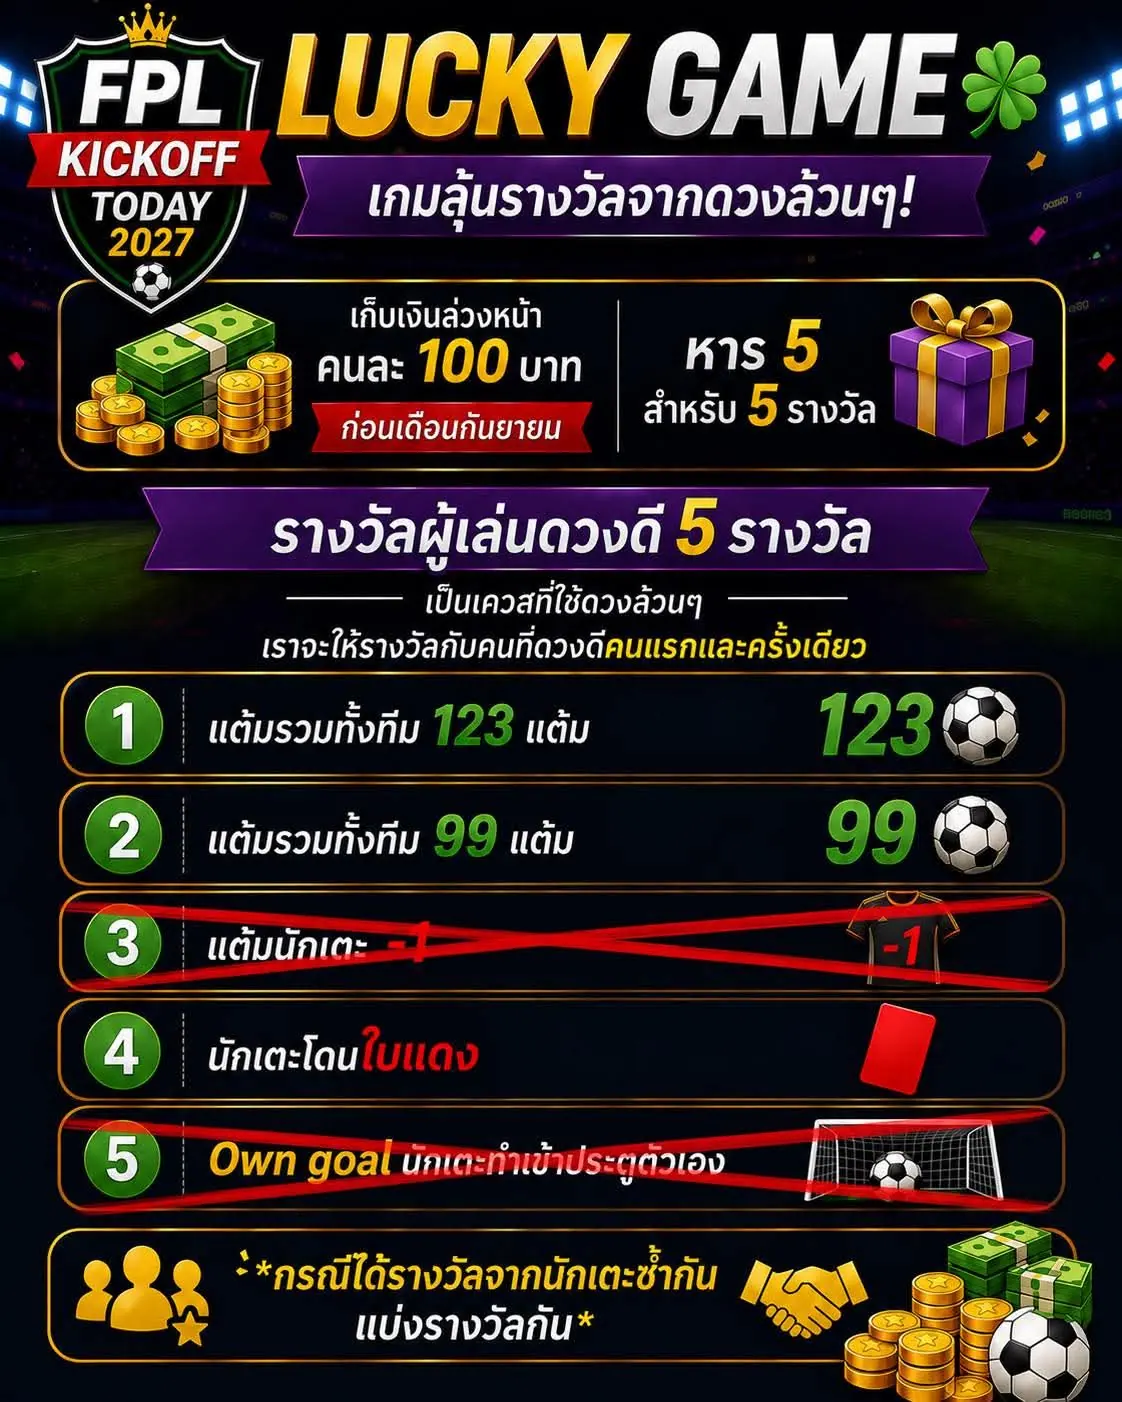
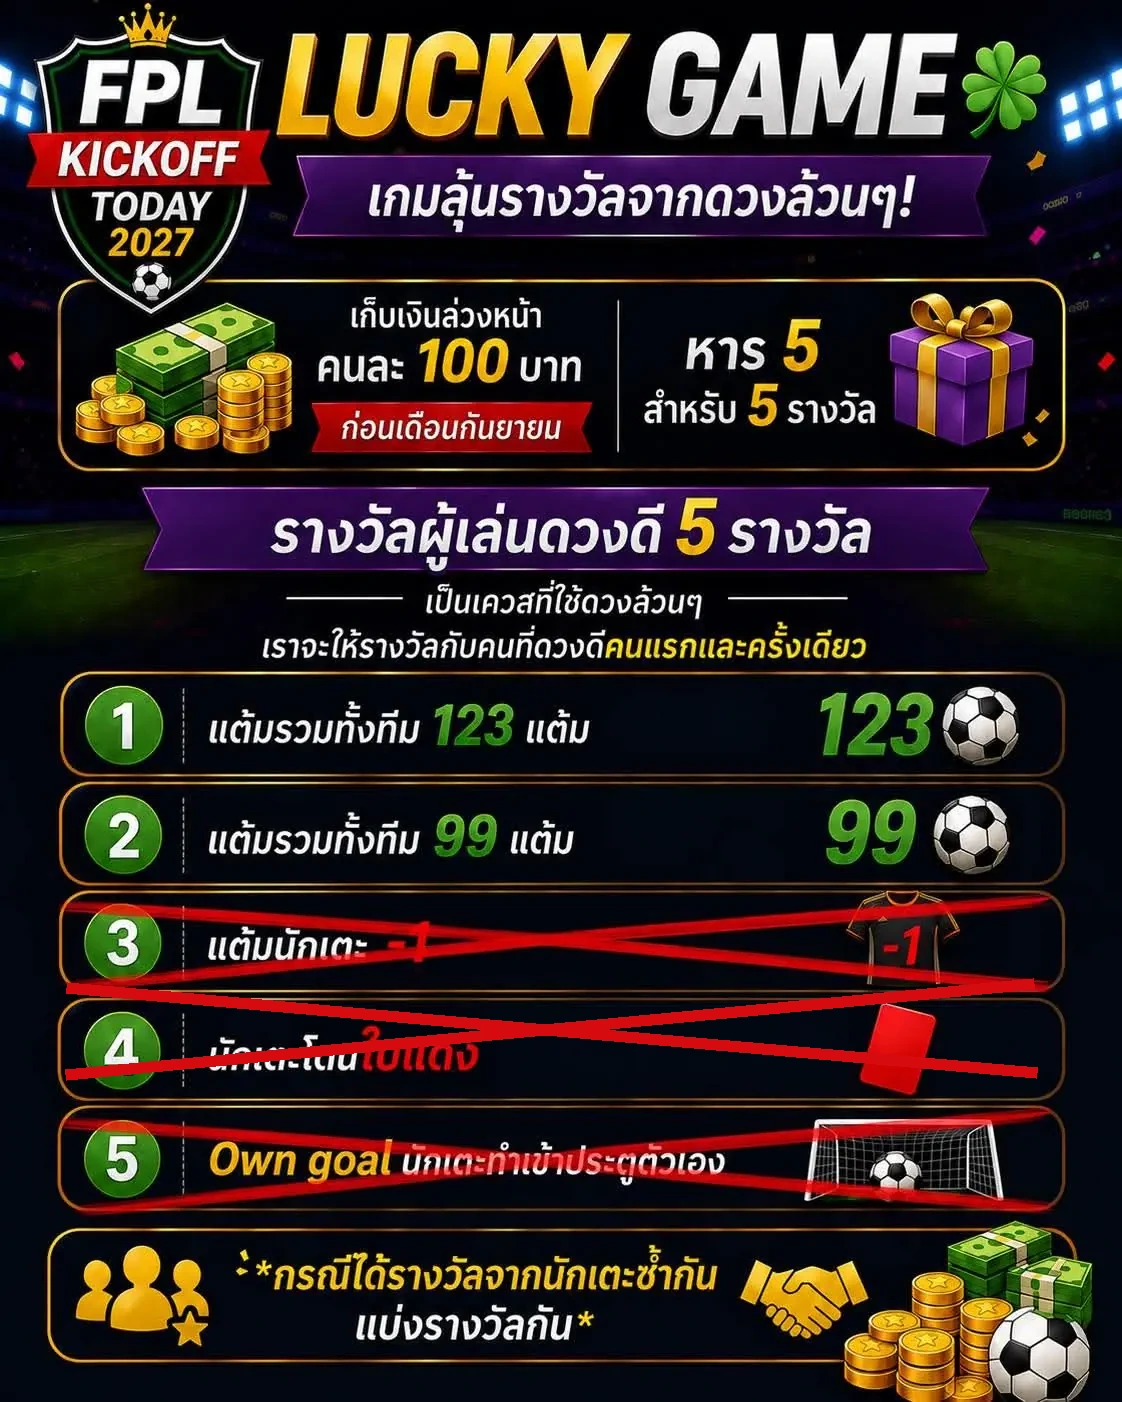
Add files via upload

Changed region(s): [[0.0624, 0.6748, 0.9358, 0.7974]]

diff --git a/app/page.js b/app/page.js
@@ -1,7 +1,7 @@
 'use client'
 
 import { useEffect, useMemo, useState } from 'react'
-import { financial, financialThroughGw, gameweeks as lockedGameweeks, members, miniGameSaves } from './league-data'
+import { financial, financialThroughGw, gameweeks as lockedGameweeks, members } from './league-data'
 import { competitions, gallery, miniWinners, luckyConditions } from './content-data'
 
 const LOCKED_THROUGH_GW = 8
@@ -11,8 +11,15 @@ const memberOrder = members.map(([name])=>name)
 const memberTeam = Object.fromEntries(members)
 const galleryGws = Object.keys(gallery).map(Number).sort((a,b)=>a-b)
 const totalGallery = Object.values(gallery).reduce((sum,items)=>sum+items.length,0)
-const financialWithCash = financial.map(p=>({...p,cash:(p.luckyPool||0)+(p.gwWon||0)+(p.gwLost||0)+(p.mini||0)+(p.lucky||0)+(p.special||0)}))
-const topFinancial = [...financialWithCash].sort((a,b)=>b.cash-a.cash)
+// Gameweek payout is ALWAYS determined only by weekly ranking. No Mini Game SAVE adjustment.
+// Mini Game and Lucky Game are independent ledger columns.
+const getWeeklyPayout = (rows, name) => {
+  const rank = rows.findIndex(row => row[0] === name)
+  if (rank < 0) return 0
+  const amount = payout[rank] ?? 0
+  return amount
+}
+
 
 function mergeGameweeks(futureGameweeks){
   const merged={...lockedGameweeks}
@@ -409,14 +416,19 @@ export default function Home(){
 
   const settlementGws=league.gwNumbers.filter(g=>g<=financialThroughGw)
   const statement=useMemo(()=>memberOrder.map(name=>{
-    const values=settlementGws.map(g=>{
-      const rank=effectiveGameweeks[g].findIndex(r=>r[0]===name)
-      let value=payout[rank]??0
-      if(miniGameSaves[g]===name&&value<0)value=0
-      return value
-    })
+    const values=settlementGws.map(g=>getWeeklyPayout(effectiveGameweeks[g],name))
     return {name,team:memberTeam[name],cash:values.reduce((a,b)=>a+b,0),values}
   }).sort((a,b)=>b.cash-a.cash),[effectiveGameweeks,settlementGws.join(',')])
+
+  const financialWithCash=useMemo(()=>financial.map(p=>{
+    const gw=statement.find(row=>row.name===p.name)?.cash??0
+    const mini=p.mini||0
+    const lucky=p.lucky||0
+    const luckyPool=p.luckyPool||0
+    const special=p.special||0
+    return {...p,gw,mini,lucky,luckyPool,special,cash:gw+mini+lucky+luckyPool+special}
+  }),[statement])
+  const topFinancial=[...financialWithCash].sort((a,b)=>b.cash-a.cash)
 
   const statsGwOptions=Array.from({length:Math.max(league.latestGw,fplSummary?.latestFplGw||0,5)},(_,i)=>i+1)
   const lockedRows=effectiveGameweeks[statsGw]||[]
@@ -565,8 +577,8 @@ export default function Home(){
       <ToyScene type="pizza"/>
       <div className="sectionTitle"><div><p>🎮 MINI GAME</p><h2>Different Game. Different Week.</h2><span>รูปแบบเปลี่ยนได้ตาม Gameweek — ไม่จำกัดว่าเป็นเกมช่วยผู้แพ้</span></div><strong>FORMAT CHANGES</strong></div>
       <div className="miniTimeline v3Timeline"><div><b>GW1–GW4</b><span>เกมปริศนาทายภาพ</span></div><i>→</i><div><b>GW5–GW8</b><span>The Differential</span></div><i>→</i><div><b>GW9</b><span>New Format</span></div></div>
-      <div className="winnerGrid">{miniWinners.map(w=><figure key={w.gw}><img src={w.image} alt={`GW${w.gw} ${w.winner}`}/><figcaption><b>GW{w.gw} • {w.winner}</b><span>{w.answer}</span></figcaption></figure>)}</div>
-      <div className="diffResult"><img src="/games/the-diff-gw5.webp" alt="The Differential GW5"/><div><small>GW5 • THE DIFFERENTIAL</small><h3>Jimmy 🤝 Guide</h3><p>Iwobi 5 pts vs Mykolenko 5 pts — Tie</p></div></div>
+      <div className="winnerGrid">{miniWinners.filter(w=>w.gw<5).map(w=><figure key={w.gw}><img src={w.image} alt={`GW${w.gw} ${w.winner}`}/><figcaption><b>GW{w.gw} • {w.winner}</b><span>{w.answer}</span></figcaption></figure>)}<figure><img src="/games/the-diff-gw5.webp" alt="GW5 The Differential Jimmy and Guide"/><figcaption><b>GW5 • Jimmy &amp; Guide</b><span>Iwobi 5 pts / Mykolenko 5 pts — Tie</span></figcaption></figure>{miniWinners.filter(w=>w.gw>5).map(w=><figure key={w.gw}><img src={w.image} alt={`GW${w.gw} ${w.winner}`}/><figcaption><b>GW{w.gw} • {w.winner}</b><span>{w.answer}</span></figcaption></figure>)}</div>
+
     </section>
 
     <section className="section statsSectionV3 toyArmySection" id="statistics">
@@ -692,8 +704,8 @@ export default function Home(){
       <ToyScene type="hamm"/>
       <div className="sectionIntroRow"><div><p className="sectionKicker">💰 FINANCE</p><h2>Manager Financial</h2><p>ข้อมูลการเงินของเกม แยกจาก FPL และไม่เผยข้อมูลบัญชีส่วนบุคคล</p></div><div className="officialTag greenTag">THROUGH GW{financialThroughGw}</div></div>
       <div className="financeTop">{topFinancial.slice(0,4).map((p,i)=><article key={p.name}><span>#{i+1}</span><h3>{p.name}</h3><small>{p.team}</small><Money value={p.cash}/></article>)}</div>
-      <div className="financeTable"><div className="financeHead"><span>Manager</span><span>Cash Flow</span><span>Lucky Pool</span><span>GW</span><span>Mini</span><span>Lucky</span></div>{topFinancial.map(p=><div className="financeRow" key={p.name}><div><b>{p.name}</b><small>{p.team}</small></div><Money value={p.cash}/><Money value={p.luckyPool}/><Money value={p.gwWon+p.gwLost}/><Money value={p.mini}/><Money value={p.lucky}/></div>)}</div>
-      <div className="statementDetails"><h3>Gameweek Statement GW1–GW{financialThroughGw}</h3><div className="statementScroll"><div className="statementTable"><div className="statementHead" style={{gridTemplateColumns:`1.4fr .7fr repeat(${settlementGws.length},.7fr)`}}><span>Manager</span><span>Total</span>{settlementGws.map(g=><span key={g}>GW{g}</span>)}</div>{statement.map(p=><div className="statementRow" style={{gridTemplateColumns:`1.4fr .7fr repeat(${settlementGws.length},.7fr)`}} key={p.name}><div><b>{p.name}</b><small>{p.team}</small></div><Money value={p.cash}/>{p.values.map((v,i)=><span key={i} className="statementCell"><Money value={v}/>{miniGameSaves[settlementGws[i]]===p.name&&<em>SAVE</em>}</span>)}</div>)}</div></div></div>
+      <div className="financeTable"><div className="financeHead"><span>Manager</span><span>Cash Flow</span><span>Lucky Pool</span><span>GW</span><span>Mini</span><span>Lucky</span></div>{topFinancial.map(p=><div className="financeRow" key={p.name}><div><b>{p.name}</b><small>{p.team}</small></div><Money value={p.cash}/><Money value={p.luckyPool}/><Money value={p.gw}/><Money value={p.mini}/><Money value={p.lucky}/></div>)}</div>
+      <div className="statementDetails"><h3>Gameweek Statement GW1–GW{financialThroughGw}</h3><div className="statementScroll"><div className="statementTable"><div className="statementHead" style={{gridTemplateColumns:`1.4fr .7fr repeat(${settlementGws.length},.7fr)`}}><span>Manager</span><span>Total</span>{settlementGws.map(g=><span key={g}>GW{g}</span>)}</div>{statement.map(p=><div className="statementRow" style={{gridTemplateColumns:`1.4fr .7fr repeat(${settlementGws.length},.7fr)`}} key={p.name}><div><b>{p.name}</b><small>{p.team}</small></div><Money value={p.cash}/>{p.values.map((v,i)=><span key={i} className="statementCell"><Money value={v}/></span>)}</div>)}</div></div></div>
       <p className="privacy">🔒 เว็บสาธารณะนี้ไม่แสดงเลขบัญชี ธนาคาร หรือช่องทางการชำระเงินส่วนบุคคล</p>
     </section>
 

diff --git a/app/league-data.js b/app/league-data.js
@@ -89,19 +89,11 @@ export const gameweeks = {
   // ],
 }
 
-// Mini Game Save: manager whose normal -30 weekly settlement becomes 0.
-// Add a new line only when a save is actually used, e.g. 6: 'Kun'
-export const miniGameSaves = {
-  1: 'Guide',
-  2: 'Ohm',
-  3: 'Pee',
-  4: 'Deer',
-  7: 'Jimmy',
-}
+// Mini Game prizes are tracked separately from Gameweek settlements.
+export const miniGameSaves = {}
 
-// Financial table is kept separately because it includes special-game money
-// that cannot be inferred safely from weekly FPL points alone.
-// When finance changes, update the relevant values here.
+// Mini/Lucky ledgers remain independent. Weekly GW money is calculated from gameweeks
+// in page.js and NEVER copied from the legacy gwWon/gwLost fields below.
 export const financialThroughGw = 8
 export const financial = [
   {name:'Best',team:'USO BEST',luckyPool:-100,gwWon:240,gwLost:-150,mini:30,lucky:220},

diff --git a/app/content-data.js b/app/content-data.js
@@ -90,10 +90,12 @@ export const gallery = {
   ],
   7: [
     ['gw7-deadline.webp','GW7 Deadline — 17:00'],
+    ['saka-injured.webp','Saka Injured — Injury Update'],
   ],
   8: [
     ['gw8-deadline.webp','GW8 Deadline — 00:30'],
     ['gw8-differential-final-round.webp','The Differential — Final Round Promo'],
+    ['saka-injured.webp','Saka Injured — Injury Update'],
   ],
 }
 
